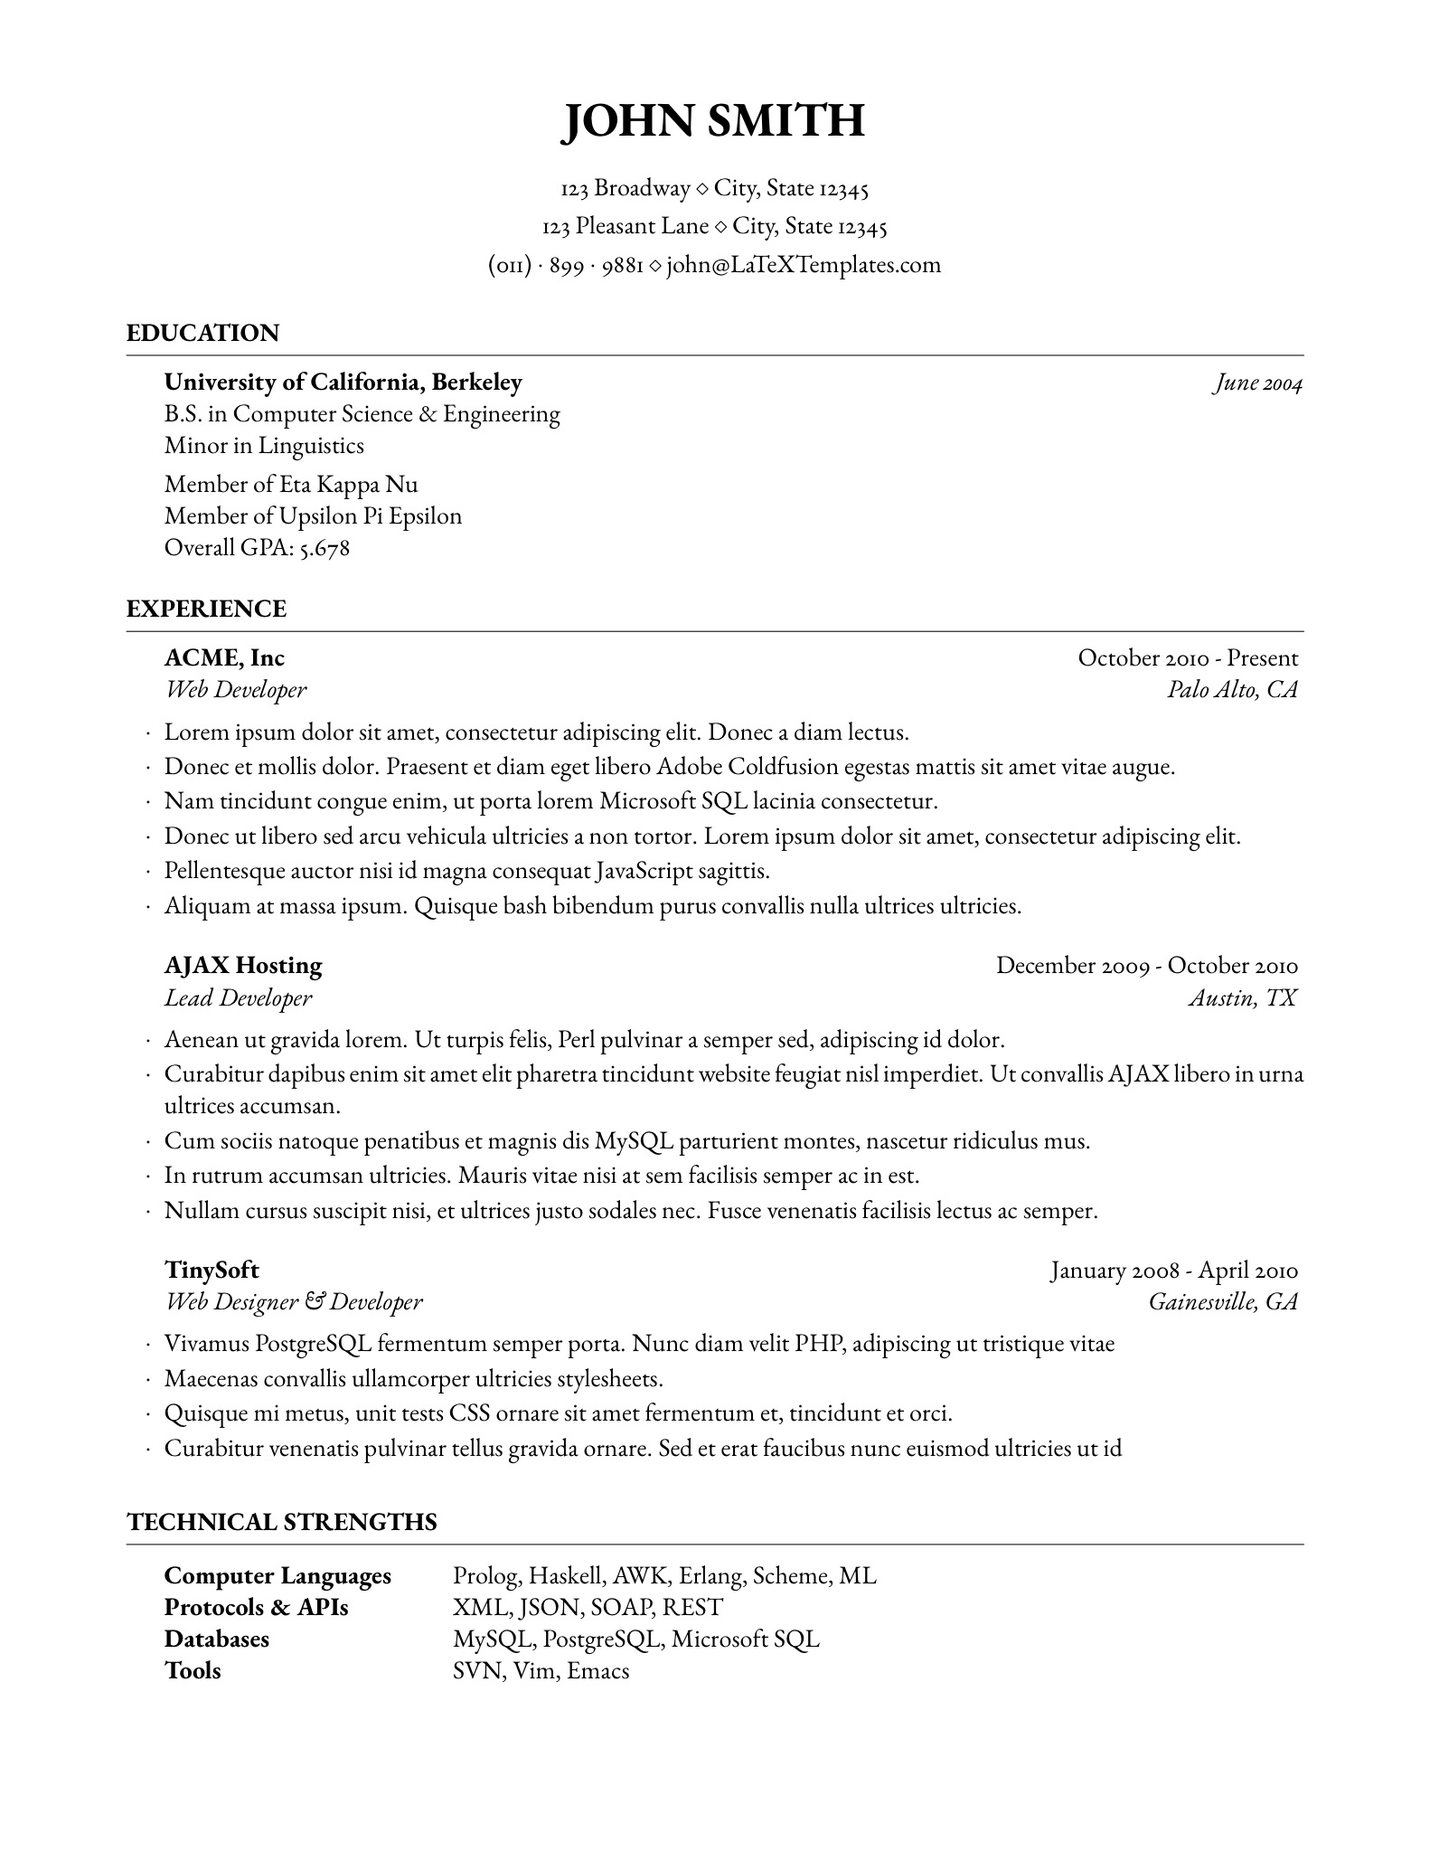
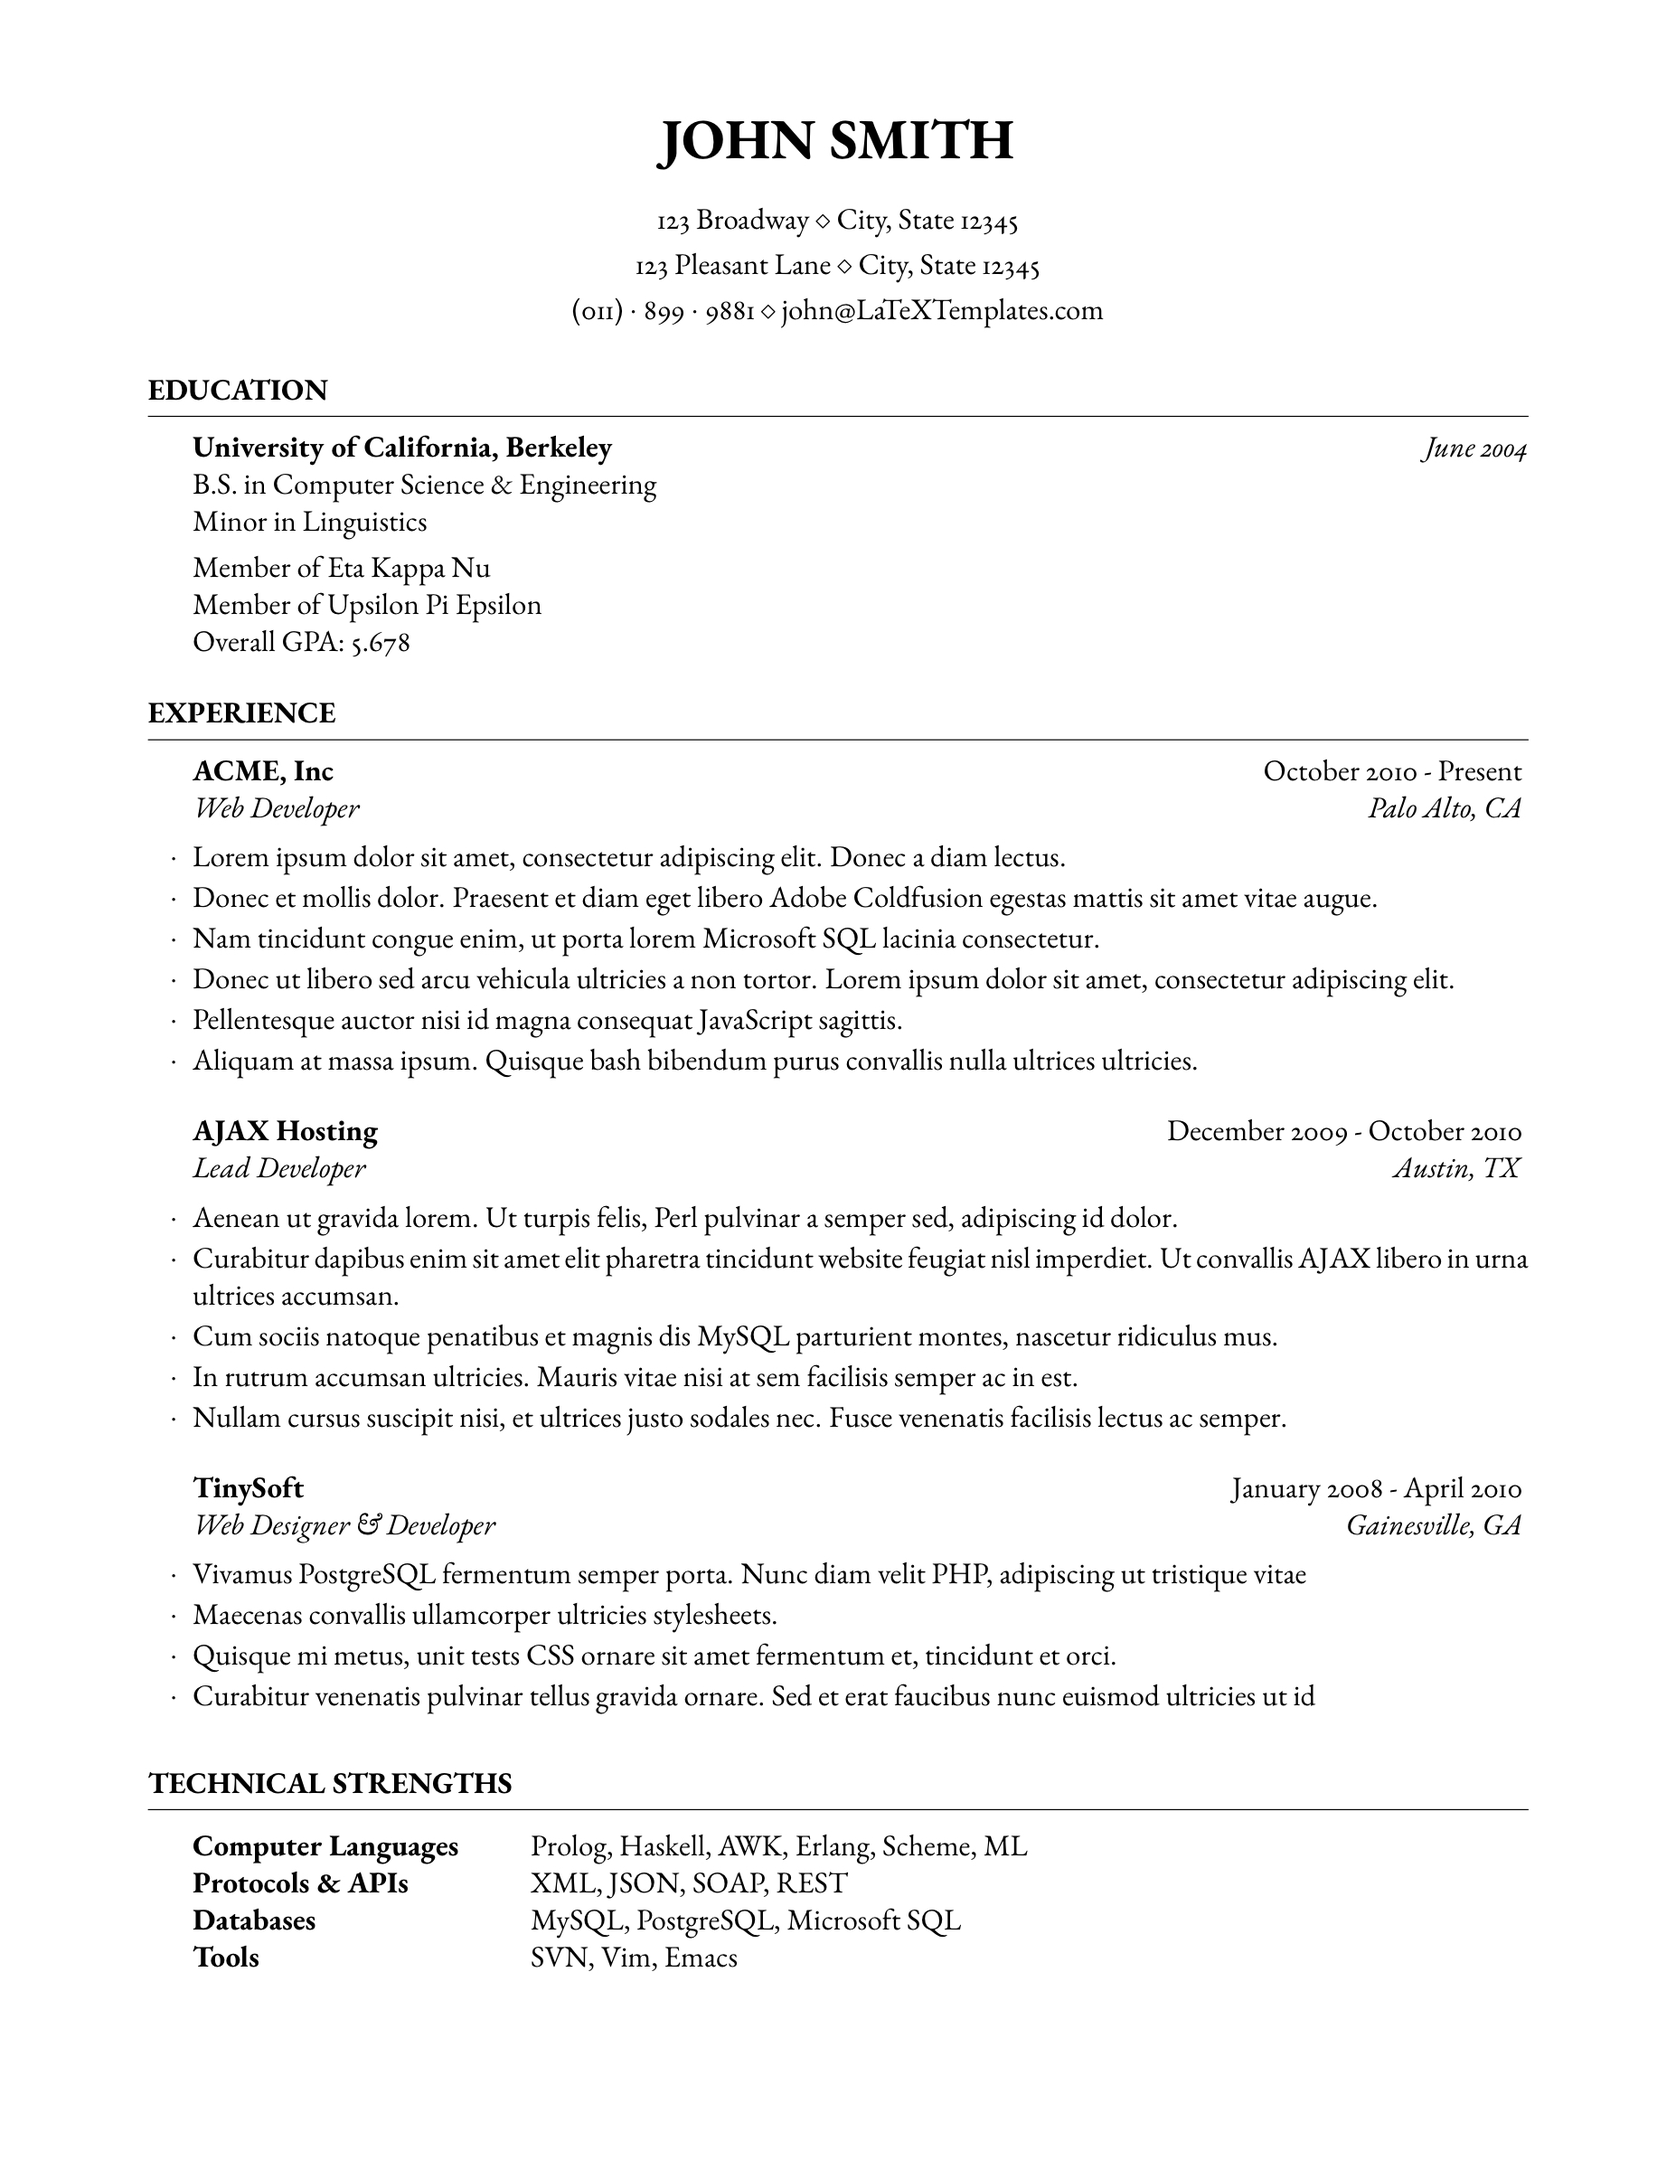
improve blurriness in readme as well

diff --git a/README.md b/README.md
@@ -2,7 +2,7 @@
 
 <p align="center">
   <a href="template.pdf">
-    <img src="template.png" alt="CV Preview" width="600">
+    <img src="template.png" alt="CV Preview" width="600" style="max-width: 100%;">
   </a>
 </p>
 
